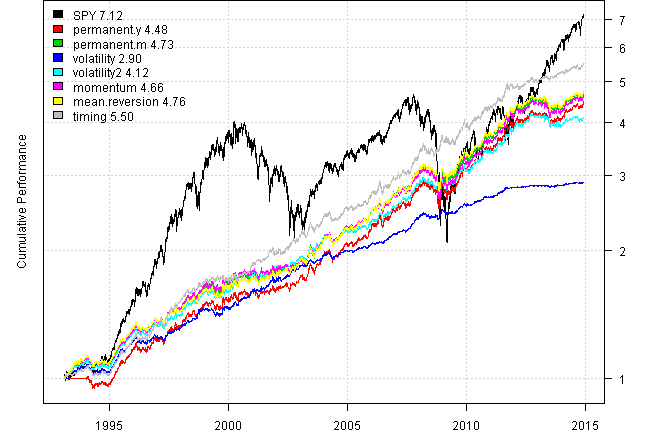
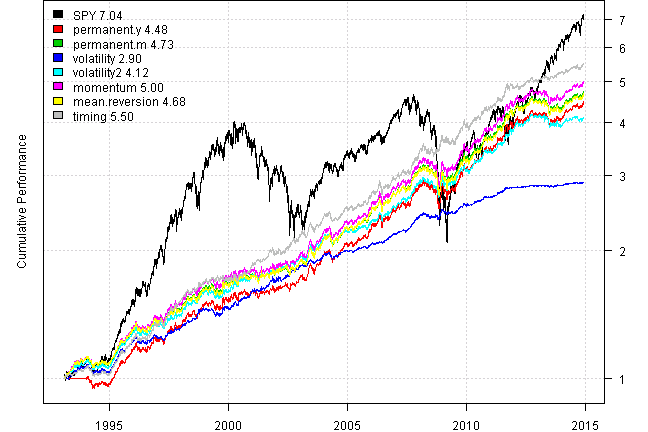
update last post

diff --git a/_posts/2014-12-08-Logical-Invest-Bug.md b/_posts/2014-12-08-Logical-Invest-Bug.md
@@ -107,7 +107,7 @@ models$volatility2 = bt.run.share(data, clean.signal=F, silent=T)
 # divide the proceeds in three and buy equal amounts
 #*****************************************************************
 momentum = prices / mlag(prices, 6*21) - 1
-	worst.asset = ntop(prices, 1, F)
+	worst.asset = ntop(momentum, 1, F)
 	penalty = 1/n * 0.15
 weight.momentum = weight.equal - penalty * worst.asset + penalty * (1-worst.asset)/(n-1)
  
@@ -121,7 +121,7 @@ models$momentum = bt.run.share(data, clean.signal=F, silent=T)
 # sell shares of the best short-term performer and distribute the money to the others
 #*****************************************************************
 mean.reversion = prices / mlag(prices, 1*21) - 1
-	best.asset = ntop(prices, 1)
+	best.asset = ntop(mean.reversion, 1)
 	penalty = 1/n * 0.15
 weight.mean.reversion = weight.equal - penalty * best.asset + penalty * (1-best.asset)/(n-1)
  
@@ -160,15 +160,15 @@ print(plotbt.strategy.sidebyside(models, make.plot=F, return.table=T))
 |           |SPY               |permanent.y       |permanent.m       |volatility        |volatility2       |momentum          |mean.reversion    |timing            |
 |:----------|:-----------------|:-----------------|:-----------------|:-----------------|:-----------------|:-----------------|:-----------------|:-----------------|
 |Period     |Jan1993 - Dec2014 |Jan1993 - Dec2014 |Jan1993 - Dec2014 |Jan1993 - Dec2014 |Jan1993 - Dec2014 |Jan1993 - Dec2014 |Jan1993 - Dec2014 |Jan1993 - Dec2014 |
-|Cagr       |9.39              |7.1               |7.36              |4.98              |6.68              |7.29              |7.39              |8.1               |
-|Sharpe     |0.57              |1.09              |1.11              |1.57              |1.23              |1.1               |1.15              |1.42              |
-|DVR        |0.42              |1.01              |1.04              |1.56              |1.17              |1.03              |1.07              |1.34              |
-|Volatility |19.09             |6.57              |6.67              |3.17              |5.47              |6.69              |6.49              |5.69              |
-|MaxDD      |-55.19            |-14.18            |-15.07            |-5.58             |-10.34            |-15.7             |-14.1             |-7.13             |
-|AvgDD      |-2.09             |-1                |-0.95             |-0.41             |-0.82             |-0.96             |-0.93             |-0.78             |
-|VaR        |-1.91             |-0.65             |-0.64             |-0.29             |-0.54             |-0.65             |-0.63             |-0.57             |
-|CVaR       |-2.84             |-0.93             |-0.92             |-0.44             |-0.77             |-0.93             |-0.9              |-0.81             |
-|Exposure   |99.98             |95.8              |99.98             |99.21             |99.98             |99.98             |99.98             |99.98             |
+|Cagr       |9.33              |7.09              |7.36              |4.98              |6.68              |7.64              |7.31              |8.1               |
+|Sharpe     |0.57              |1.09              |1.11              |1.57              |1.23              |1.16              |1.11              |1.42              |
+|DVR        |0.42              |1.01              |1.04              |1.56              |1.17              |1.09              |1.04              |1.34              |
+|Volatility |19.09             |6.57              |6.67              |3.17              |5.47              |6.6               |6.64              |5.69              |
+|MaxDD      |-55.19            |-14.18            |-15.07            |-5.58             |-10.34            |-14.68            |-14.42            |-7.13             |
+|AvgDD      |-2.1              |-1                |-0.94             |-0.41             |-0.82             |-0.97             |-0.93             |-0.78             |
+|VaR        |-1.91             |-0.65             |-0.64             |-0.29             |-0.54             |-0.64             |-0.64             |-0.57             |
+|CVaR       |-2.84             |-0.93             |-0.92             |-0.44             |-0.77             |-0.92             |-0.92             |-0.81             |
+|Exposure   |99.98             |95.81             |99.98             |99.21             |99.98             |99.98             |99.98             |99.98             |
     
 
 
@@ -208,14 +208,14 @@ print(plotbt.strategy.sidebyside(models1, make.plot=F, return.table=T))
 |           |SPY               |permanent.y       |permanent.m       |volatility        |volatility2       |momentum          |mean.reversion    |timing            |
 |:----------|:-----------------|:-----------------|:-----------------|:-----------------|:-----------------|:-----------------|:-----------------|:-----------------|
 |Period     |Jan2014 - Dec2014 |Jan2014 - Dec2014 |Jan2014 - Dec2014 |Jan2014 - Dec2014 |Jan2014 - Dec2014 |Jan2014 - Dec2014 |Jan2014 - Dec2014 |Jan2014 - Dec2014 |
-|Cagr       |15.54             |10.43             |10.33             |1.92              |4.94              |10.84             |10.07             |4.87              |
-|Sharpe     |1.3               |2.14              |2.12              |1.46              |1.36              |2.13              |2.01              |1.25              |
-|DVR        |1.07              |1.68              |1.64              |1.12              |0.44              |1.64              |1.49              |0.9               |
-|Volatility |10.73             |4.78              |4.78              |1.33              |3.72              |5                 |4.97              |3.65              |
-|MaxDD      |-7.27             |-2.65             |-2.57             |-0.76             |-2.79             |-2.69             |-2.7              |-2.57             |
-|AvgDD      |-1.29             |-0.6              |-0.62             |-0.16             |-0.54             |-0.65             |-0.63             |-0.64             |
-|VaR        |-1.14             |-0.46             |-0.47             |-0.13             |-0.37             |-0.49             |-0.5              |-0.37             |
-|CVaR       |-1.69             |-0.65             |-0.64             |-0.19             |-0.54             |-0.67             |-0.65             |-0.59             |
+|Cagr       |14.09             |10.3              |10.17             |1.91              |4.88              |10.61             |10.54             |4.87              |
+|Sharpe     |1.17              |2.12              |2.09              |1.45              |1.34              |2.27              |2.13              |1.25              |
+|DVR        |0.97              |1.67              |1.63              |1.12              |0.45              |1.91              |1.63              |0.9               |
+|Volatility |10.83             |4.77              |4.77              |1.33              |3.71              |4.57              |4.89              |3.64              |
+|MaxDD      |-7.27             |-2.65             |-2.57             |-0.76             |-2.79             |-2.44             |-2.49             |-2.57             |
+|AvgDD      |-1.35             |-0.59             |-0.6              |-0.16             |-0.54             |-0.56             |-0.61             |-0.61             |
+|VaR        |-1.15             |-0.46             |-0.47             |-0.13             |-0.37             |-0.46             |-0.48             |-0.37             |
+|CVaR       |-1.73             |-0.65             |-0.64             |-0.19             |-0.54             |-0.63             |-0.64             |-0.59             |
 |Exposure   |100               |100               |100               |100               |100               |100               |100               |100               |
     
 
@@ -247,14 +247,14 @@ print(plotbt.strategy.sidebyside(models1, make.plot=F, return.table=T))
 |           |SPY               |permanent.y       |permanent.m       |volatility        |volatility2       |momentum          |mean.reversion    |timing            |
 |:----------|:-----------------|:-----------------|:-----------------|:-----------------|:-----------------|:-----------------|:-----------------|:-----------------|
 |Period     |Jan2010 - Dec2014 |Jan2010 - Dec2014 |Jan2010 - Dec2014 |Jan2010 - Dec2014 |Jan2010 - Dec2014 |Jan2010 - Dec2014 |Jan2010 - Dec2014 |Jan2010 - Dec2014 |
-|Cagr       |15.15             |7.66              |7.51              |2.55              |5.97              |7.72              |7.25              |6.96              |
-|Sharpe     |0.99              |1.24              |1.21              |1.73              |1.16              |1.19              |1.21              |1.34              |
-|DVR        |0.91              |1.05              |0.98              |1.44              |0.89              |0.96              |0.98              |1.26              |
-|Volatility |15.86             |6.3               |6.31              |1.51              |5.28              |6.61              |6.1               |5.28              |
-|MaxDD      |-18.61            |-8.05             |-8.85             |-1.1              |-6.74             |-9.27             |-8.53             |-3.7              |
-|AvgDD      |-1.67             |-0.97             |-0.96             |-0.18             |-0.79             |-1.02             |-0.91             |-0.72             |
-|VaR        |-1.61             |-0.62             |-0.64             |-0.15             |-0.51             |-0.67             |-0.61             |-0.54             |
-|CVaR       |-2.42             |-0.92             |-0.92             |-0.21             |-0.81             |-0.97             |-0.89             |-0.8              |
+|Cagr       |14.88             |7.64              |7.48              |2.55              |5.96              |7.68              |7.59              |6.96              |
+|Sharpe     |0.97              |1.23              |1.21              |1.73              |1.15              |1.26              |1.23              |1.34              |
+|DVR        |0.9               |1.05              |0.98              |1.44              |0.88              |1.05              |0.98              |1.26              |
+|Volatility |15.86             |6.3               |6.31              |1.51              |5.27              |6.22              |6.29              |5.28              |
+|MaxDD      |-18.61            |-8.05             |-8.85             |-1.1              |-6.74             |-7.91             |-8.96             |-3.7              |
+|AvgDD      |-1.68             |-0.96             |-0.95             |-0.18             |-0.79             |-0.95             |-0.91             |-0.71             |
+|VaR        |-1.61             |-0.62             |-0.63             |-0.15             |-0.51             |-0.63             |-0.62             |-0.54             |
+|CVaR       |-2.42             |-0.92             |-0.92             |-0.21             |-0.81             |-0.91             |-0.92             |-0.8              |
 |Exposure   |100               |100               |100               |100               |100               |100               |100               |100               |
     
 
@@ -264,5 +264,154 @@ Finally let's include some 'newer' asset classes that were not easily accessible
     Inflation protected Treasuries (TIP)
 
 
+    
+    
+A few notes about `R` code and how it works.
+---
 
-*(this report was produced on: 2014-12-10)*
+For example, below I want to create an `xts` object with target allocation.
+
+
+{% highlight r %}
+target.allocation = prices
+	target.allocation[] = rep.row(rep(1/n,n), nperiods)
+{% endhighlight %}
+
+The trick is to take an existing `xts` object, in this example `prices`, and
+override it's content with target values. The `[]` operator in front of `target.allocation`
+indicates that we are only changing content of `target.allocation`, but keeping all other
+attributes.
+
+Another example is pulling 15% of equity from the worst asset, and 
+divide the proceeds in three and buy equal amounts
+
+
+{% highlight r %}
+	worst.asset = ntop(momentum, 1, F)
+	penalty = 1/n * 0.15
+	weight.momentum = weight.equal - penalty * worst.asset + penalty * (1-worst.asset)/(n-1)
+{% endhighlight %}
+
+First we find `worst.asset`, i.e. it will contain 1's in the location of the worst asset and
+0's everywhere else:
+
+
+{% highlight r %}
+	print(tail(worst.asset,10))
+{% endhighlight %}
+
+
+
+|           | GLD| SHY| SPY| TLT|
+|:----------|---:|---:|---:|---:|
+|2014-11-28 |   1|   0|   0|   0|
+|2014-12-01 |   1|   0|   0|   0|
+|2014-12-02 |   1|   0|   0|   0|
+|2014-12-03 |   1|   0|   0|   0|
+|2014-12-04 |   1|   0|   0|   0|
+|2014-12-05 |   1|   0|   0|   0|
+|2014-12-08 |   1|   0|   0|   0|
+|2014-12-09 |   1|   0|   0|   0|
+|2014-12-10 |   1|   0|   0|   0|
+|2014-12-11 |   1|   0|   0|   0|
+    
+
+Next, we know that in our target allocation each asset get's `1/n` weight, so the
+worst asset will get a penalty equal to 15% of it's weight. I.e.
+
+
+{% highlight r %}
+	print(tail(weight.equal,10))
+{% endhighlight %}
+
+
+
+|           |  GLD|  SHY|  SPY|  TLT|
+|:----------|----:|----:|----:|----:|
+|2014-11-28 | 0.25| 0.25| 0.25| 0.25|
+|2014-12-01 | 0.25| 0.25| 0.25| 0.25|
+|2014-12-02 | 0.25| 0.25| 0.25| 0.25|
+|2014-12-03 | 0.25| 0.25| 0.25| 0.25|
+|2014-12-04 | 0.25| 0.25| 0.25| 0.25|
+|2014-12-05 | 0.25| 0.25| 0.25| 0.25|
+|2014-12-08 | 0.25| 0.25| 0.25| 0.25|
+|2014-12-09 | 0.25| 0.25| 0.25| 0.25|
+|2014-12-10 | 0.25| 0.25| 0.25| 0.25|
+|2014-12-11 | 0.25| 0.25| 0.25| 0.25|
+    
+
+
+
+
+{% highlight r %}
+	weight.momentum = weight.equal - penalty * worst.asset
+	print(tail(weight.momentum,10))
+{% endhighlight %}
+
+
+
+|           |    GLD|  SHY|  SPY|  TLT|
+|:----------|------:|----:|----:|----:|
+|2014-11-28 | 0.2125| 0.25| 0.25| 0.25|
+|2014-12-01 | 0.2125| 0.25| 0.25| 0.25|
+|2014-12-02 | 0.2125| 0.25| 0.25| 0.25|
+|2014-12-03 | 0.2125| 0.25| 0.25| 0.25|
+|2014-12-04 | 0.2125| 0.25| 0.25| 0.25|
+|2014-12-05 | 0.2125| 0.25| 0.25| 0.25|
+|2014-12-08 | 0.2125| 0.25| 0.25| 0.25|
+|2014-12-09 | 0.2125| 0.25| 0.25| 0.25|
+|2014-12-10 | 0.2125| 0.25| 0.25| 0.25|
+|2014-12-11 | 0.2125| 0.25| 0.25| 0.25|
+    
+
+Please notice that we still need to distribute the weight which is taken away from the worst asset.
+`1-worst.asset` is matrix that has 0's for the worst asset and 1's every there else.
+
+
+{% highlight r %}
+	print(tail(1-worst.asset,10))
+{% endhighlight %}
+
+
+
+|           | GLD| SHY| SPY| TLT|
+|:----------|---:|---:|---:|---:|
+|2014-11-28 |   0|   1|   1|   1|
+|2014-12-01 |   0|   1|   1|   1|
+|2014-12-02 |   0|   1|   1|   1|
+|2014-12-03 |   0|   1|   1|   1|
+|2014-12-04 |   0|   1|   1|   1|
+|2014-12-05 |   0|   1|   1|   1|
+|2014-12-08 |   0|   1|   1|   1|
+|2014-12-09 |   0|   1|   1|   1|
+|2014-12-10 |   0|   1|   1|   1|
+|2014-12-11 |   0|   1|   1|   1|
+    
+
+So `penalty * (1-worst.asset)/(n-1)` distributes the penalty weight equally among the rest of
+assets. I.e. `n-1' assets. And now the final portfolio weight is sums up to one.
+
+
+{% highlight r %}
+	weight.momentum = weight.equal - penalty * worst.asset + penalty * (1-worst.asset)/(n-1)
+	print(tail(weight.momentum,10))
+{% endhighlight %}
+
+
+
+|           |    GLD|    SHY|    SPY|    TLT|
+|:----------|------:|------:|------:|------:|
+|2014-11-28 | 0.2125| 0.2625| 0.2625| 0.2625|
+|2014-12-01 | 0.2125| 0.2625| 0.2625| 0.2625|
+|2014-12-02 | 0.2125| 0.2625| 0.2625| 0.2625|
+|2014-12-03 | 0.2125| 0.2625| 0.2625| 0.2625|
+|2014-12-04 | 0.2125| 0.2625| 0.2625| 0.2625|
+|2014-12-05 | 0.2125| 0.2625| 0.2625| 0.2625|
+|2014-12-08 | 0.2125| 0.2625| 0.2625| 0.2625|
+|2014-12-09 | 0.2125| 0.2625| 0.2625| 0.2625|
+|2014-12-10 | 0.2125| 0.2625| 0.2625| 0.2625|
+|2014-12-11 | 0.2125| 0.2625| 0.2625| 0.2625|
+    
+
+
+*(this report was produced on: 2014-12-12)*
